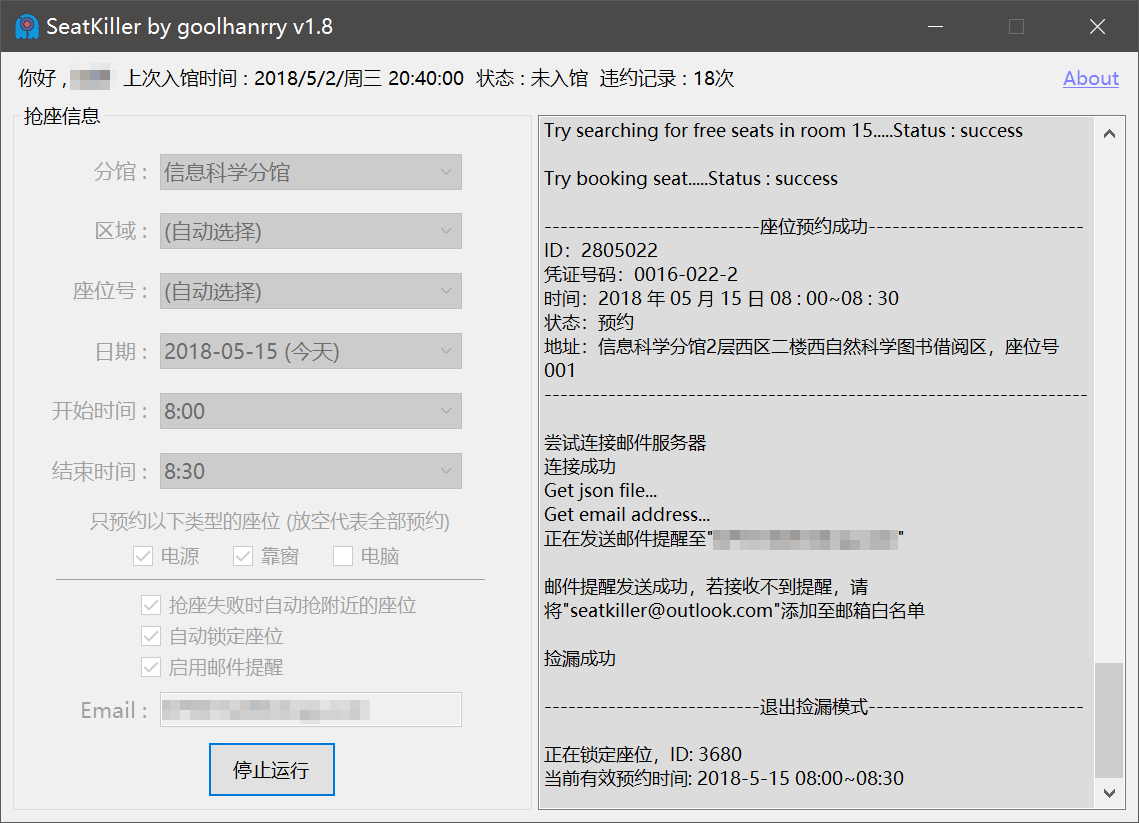
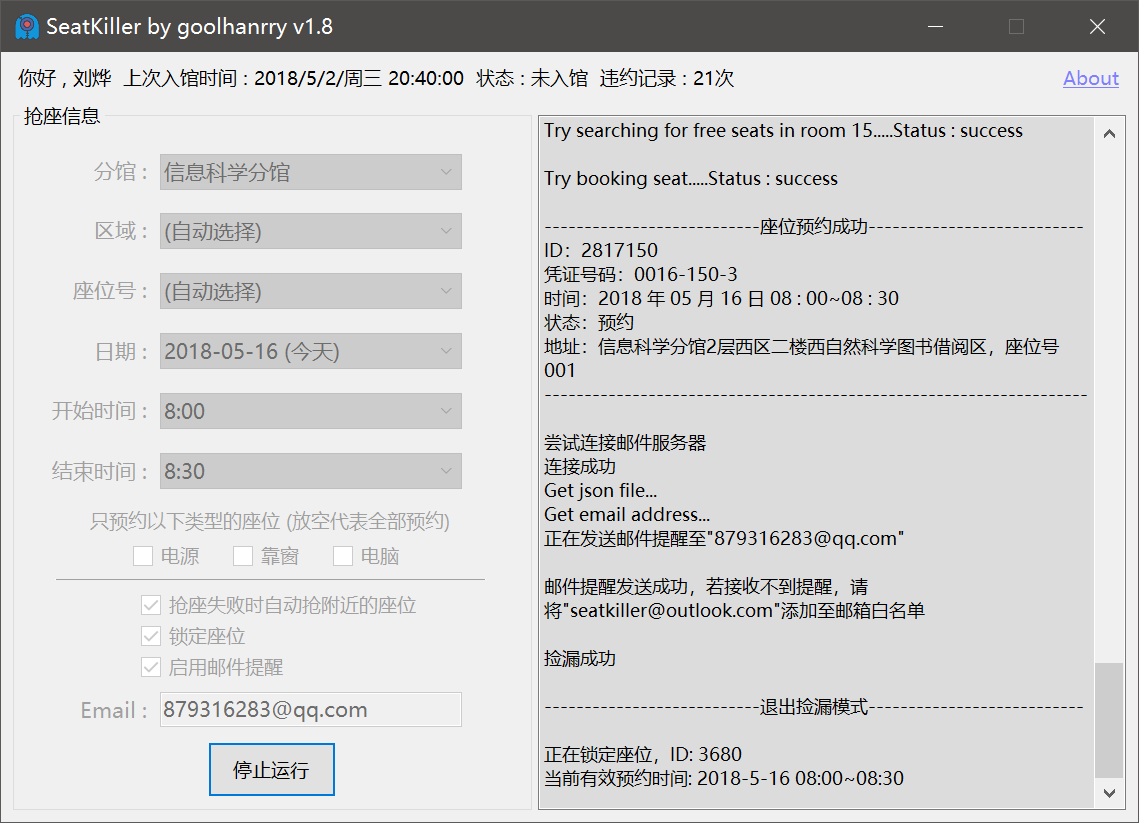
修复结束时间显示错误的问题

diff --git a/SeatKiller_UI/Config.cs b/SeatKiller_UI/Config.cs
@@ -101,7 +101,7 @@ namespace SeatKiller_UI
         {
             //About about = new About();
             //about.ShowDialog();
-            MessageBox.Show("版本号：1.8\r\nGitHub仓库：https://github.com/goolhanrry/SeatKiller_UI\r\n还没搭好的个人主页：https://www.goolhanrry.club/\r\n\r\n本软件完全开源，也不会以任何形式收取捐赠\r\nCode Style写得一般，欢迎添加我的微信: aweawds 交流探讨或提交bug ۹(๑•̀ω•́ ๑)۶", "关于");
+            MessageBox.Show("版本号：1.8.1\r\nGitHub仓库：https://github.com/goolhanrry/SeatKiller_UI\r\n还没搭好的个人主页：https://www.goolhanrry.club/\r\n\r\n本软件完全开源，也不会以任何形式收取捐赠\r\nCode Style写得一般，欢迎添加我的微信: aweawds 交流探讨或提交bug ۹(๑•̀ω•́ ๑)۶", "关于");
         }
 
         private void checkBox2_CheckedChanged(object sender, EventArgs e)
@@ -223,16 +223,27 @@ namespace SeatKiller_UI
             }
             else
             {
-                comboBox4.DataSource = startTimeList;
+                displayStartTimeList = startTimeList;
+                comboBox4.DataSource = displayStartTimeList;
             }
         }
 
         private void comboBox4_SelectedIndexChanged(object sender, EventArgs e)
         {
             ArrayList endTimeList = new ArrayList();
-            for (int i = comboBox4.SelectedIndex + 1; i <= displayStartTimeList.Count - 1; i++)
+            if (comboBox4.SelectedIndex == 0 & displayStartTimeList.Count == 30)
             {
-                endTimeList.Add(displayStartTimeList[i]);
+                for (int i = comboBox4.SelectedIndex + 2; i <= displayStartTimeList.Count - 1; i++)
+                {
+                    endTimeList.Add(displayStartTimeList[i]);
+                }
+            }
+            else
+            {
+                for (int i = comboBox4.SelectedIndex + 1; i <= displayStartTimeList.Count - 1; i++)
+                {
+                    endTimeList.Add(displayStartTimeList[i]);
+                }
             }
             endTimeList.Add(new DictionaryEntry("1350", "22:30"));
             comboBox5.DataSource = endTimeList;

diff --git a/SeatKiller_UI/About.Designer.cs b/SeatKiller_UI/About.Designer.cs
@@ -46,8 +46,8 @@
             this.label1.Name = "label1";
             this.label1.Size = new System.Drawing.Size(750, 168);
             this.label1.TabIndex = 0;
-            this.label1.Text = "版本号：1.8\r\nGitHub仓库：\r\n不定时更新，最新版本将在下方QQ群和GitHub仓库中发布\r\n\r\n本软件完全开源，也不会以任何形式收取捐赠\r\nCode S" +
-    "tyle写得一般，欢迎添加作者微信或QQ群交流探讨及提交bug ۹(๑•̀ω•́ ๑)۶";
+            this.label1.Text = "版本号：1.8.1\r\nGitHub仓库：\r\n不定时更新，最新版本将在下方QQ群和GitHub仓库中发布\r\n\r\n本软件完全开源，也不会以任何形式收取捐赠\r\nCode" +
+    " Style写得一般，欢迎添加作者微信或QQ群交流探讨及提交bug ۹(๑•̀ω•́ ๑)۶";
             // 
             // pictureBox1
             // 

diff --git a/SeatKiller_UI/Login.Designer.cs b/SeatKiller_UI/Login.Designer.cs
@@ -175,7 +175,7 @@
             this.Name = "Login";
             this.SizeGripStyle = System.Windows.Forms.SizeGripStyle.Hide;
             this.StartPosition = System.Windows.Forms.FormStartPosition.CenterScreen;
-            this.Text = "SeatKiller by goolhanrry v1.8";
+            this.Text = "SeatKiller by goolhanrry v1.8.1";
             this.Activated += new System.EventHandler(this.Login_Activated);
             this.FormClosed += new System.Windows.Forms.FormClosedEventHandler(this.Login_FormClosed);
             this.Load += new System.EventHandler(this.Login_Load);

diff --git a/SeatKiller_UI/Config.Designer.cs b/SeatKiller_UI/Config.Designer.cs
@@ -399,7 +399,7 @@
             this.Name = "Config";
             this.SizeGripStyle = System.Windows.Forms.SizeGripStyle.Hide;
             this.StartPosition = System.Windows.Forms.FormStartPosition.CenterScreen;
-            this.Text = "SeatKiller by goolhanrry v1.8";
+            this.Text = "SeatKiller by goolhanrry v1.8.1";
             this.FormClosed += new System.Windows.Forms.FormClosedEventHandler(this.Config_FormClosed);
             this.Load += new System.EventHandler(this.Config_Load);
             this.groupBox1.ResumeLayout(false);

diff --git a/SeatKiller_UI/Properties/AssemblyInfo.cs b/SeatKiller_UI/Properties/AssemblyInfo.cs
@@ -33,7 +33,7 @@ using System.Runtime.InteropServices;
 // 可以指定所有值，也可以使用以下所示的 "*" 预置版本号和修订号
 // 方法是按如下所示使用“*”: :
 // [assembly: AssemblyVersion("1.0.*")]
-[assembly: AssemblyVersion("1.8")]
-[assembly: AssemblyFileVersion("1.8")]
+[assembly: AssemblyVersion("1.8.1")]
+[assembly: AssemblyFileVersion("1.8.1")]
 [assembly: NeutralResourcesLanguage("zh-CN")]
 
